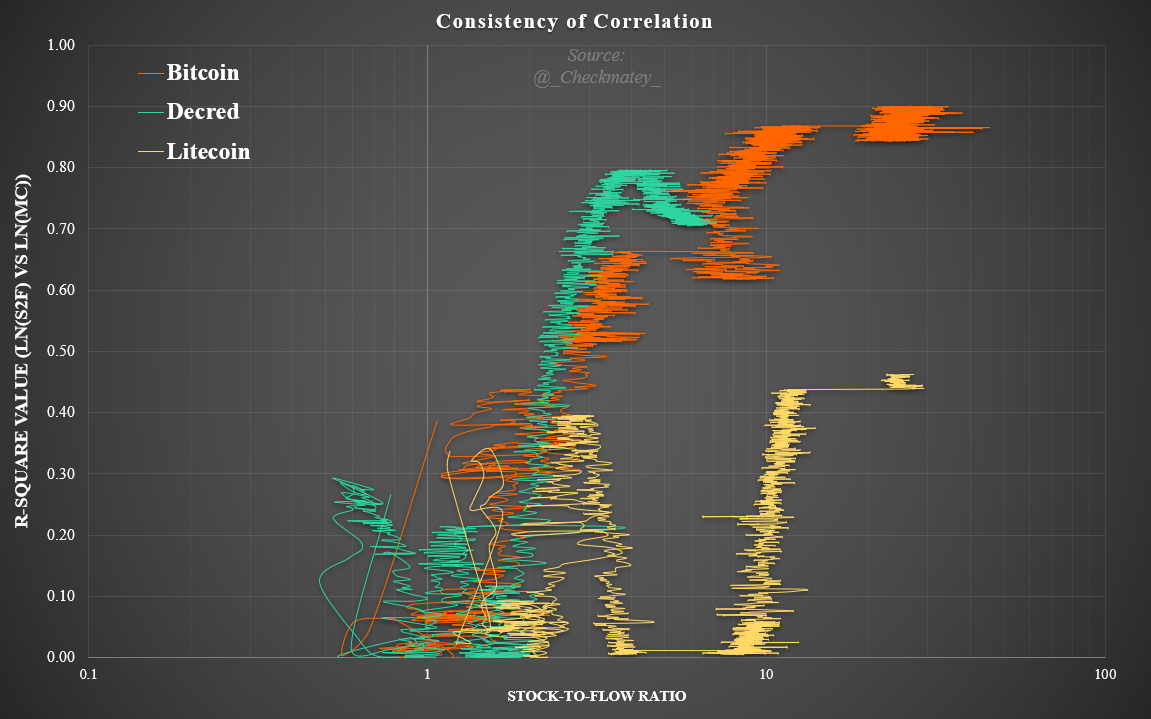
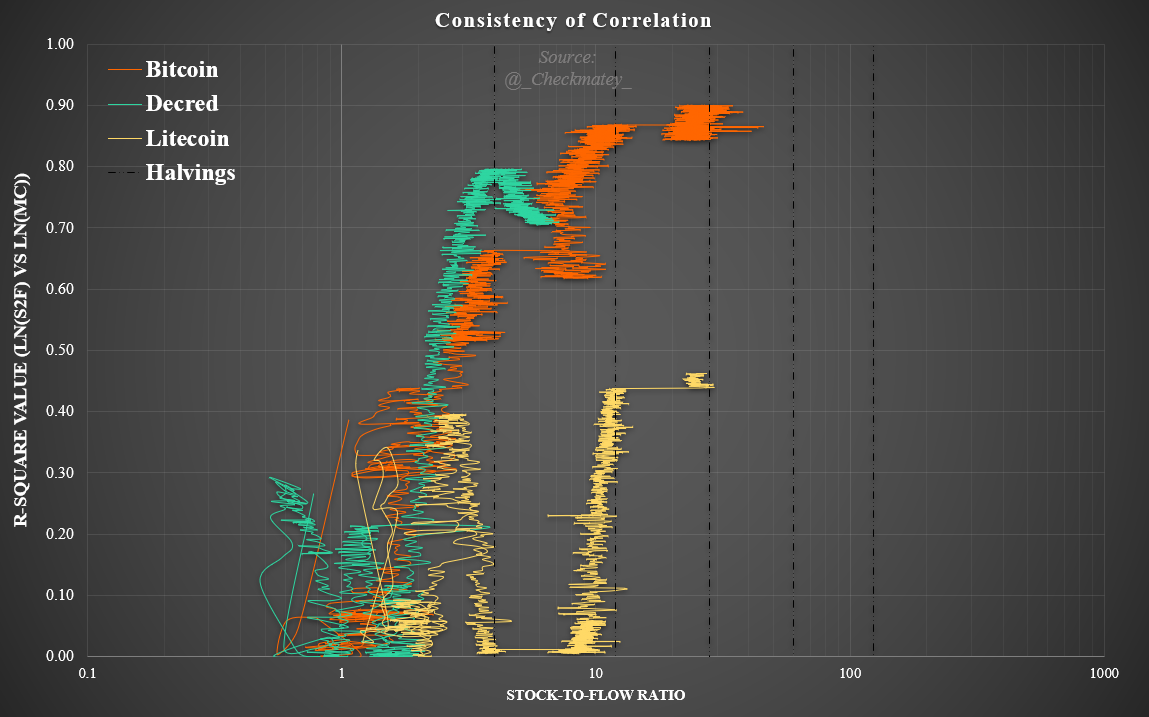
Updated halvings

diff --git a/research_articles/dcr_following_footsteps/decred_following_footsteps.md b/research_articles/dcr_following_footsteps/decred_following_footsteps.md
@@ -87,46 +87,45 @@ For comparison, the same calculation will be undertaken for **Litecoin** which l
 
 The regression analysis has been undertaken as follows:
 
-1) Data is aquired for BTC, DCR and LTC from the coinmetrics.io community dataset. Early price data for Bitcoin is supplemented with data originally used in Plan B's model. Similarly, DCR data is supplemented with the genesis pricing of $0.49/DCR and early data from Bittrex not included in the coinmetrics dataset. Data is thus considered on a daily basis.
+1) Data is aquired for BTC, DCR and LTC from the coinmetrics.io community dataset. Early price data for Bitcoin is supplemented with [data originally used in Plan B's model](https://github.com/100trillionUSD/bitcoin). Similarly, DCR data is supplemented with the genesis pricing of $0.49/DCR and early data from Bittrex not included in the coinmetrics dataset. Data is thus considered on a daily basis.
 
 2) Calculate the daily annual inflation rate of native coins (assuming 365.25 days/yr) and the corresponding Stock-to-Flow ratio. Assuming a power-law relationship exists, the natural logarithm of both S2F and Market Cap are taken and used in linear regression models.
 
 3) Considering the quality of a regression analysis is dependant on the size and quality of the input dataset, an additional set of calculations are undertaken looking at the R-Squared coefficient ovet time. This aims to observe the quality of the Bitcoin model fit with due consideration of the age difference between **Bitcoin**, **Decred** and **Litecoin**. It is expected that if a sound monetary premium is developing, the model fit would improve as more market data comes to light leading to an increasing R-square coefficient.
 
-4) Results are presented normalised against Stock-to-Flow Ratio or the proportion of total supply issued to normalise for the age of each protocol. This compares the model on a like-for-like basis.
+4) Results are presented normalised against Stock-to-Flow Ratio or the proportion of total supply issued to normalise for the age of each protocol with commentary provided.
 
 The model spreadsheet is available [here](regression_analysis.xlsx) for inspection and verification.
 
-# Analysis Result
+# Analysis Results
 ## Stock-to-Flow Relationships
 
-The results of the linear regression analysis including model parameters and R-square fit coefficients are presented in the table and figure below. For Bitcoin and Litecoin, a second regression analysis considering only the first four years of data (pre-halving 1) to align with Plan B's original analysis which showed four years of data provided a very strong model fit.
+The results of the linear regression analysis including model parameters and R-squared fit coefficients are presented in the table and figure below. For Bitcoin and Litecoin, a second regression analysis is undertaken considering only the first four years of data (pre-halving #1) to align with Plan B's follow up analysis which showed four years of data provided a very strong model fit.
 
 By plotting the market valuation against stock-to-flow ratio in log-log space, we can verify visually that the linear regression calculation indeed matches the available market data for each protocol.
-
-There are a number of observations and considerations which must be taken into account when interpreting these results.
 
 ![Regression Analysis Results](images/05_regression_results.png)
 ![Regression Formula](images/05_regression_formula.png)
 ![Regression Analysis Plot](images/06_regression_plot.png)
 
-## Bitcoin
-All three **Bitcoin** regression models are reasonably consistent in fit and show an improved R-square coefficient as larger data-sets and more history is considered. Indeed the full history of Bitcoin very closely matches the model developed by Plan B.
+## ₿itcoin
+All three **Bitcoin** regression models show a consistent fit and generally agree with Plan B's model. A positive correlation exists between the R-squared coefficient and larger input data-sets with more price history. Indeed the full history of Bitcoin very closely matches the model developed by Plan B with an R-squared of 0.899.
 
-Plan Bs original model utilised monthly price data (first of each month) whereas this study considers the average daily close price data. Whilst the overall outcome is similar, the pre-halving model fit using the set of daily **Bitcoin** daily data provides an R-square value of only 0.6624, a marked reduction from ~0.90 when considering a monthly distribution of data for the full history.
+Plan Bs original model utilised monthly price data (first of each month) whereas this study considers the average daily close price data. Whilst the outcome is consistent, the pre-halving model using the set of daily **Bitcoin** data provides an R-squared value of only 0.6624, whilst the fit using monthly price data is 0.894. This highlights the importance of temporal distribution of input data which has shown to make statistically significant differences to the model fit.
 
-This highlights the importance of temporal distribution of the data which has shown to make statistically significant differences to the model fit. At halving events for example, there is a significant change to Bitcoin's Stock-to-flow ratio which is not immediately followed by an equivalent shift in network valuation. Therefore one must be cautious to select data that is not heavily weighted of skewed by data immediately after a halving event.
+At halving events there is a significant change to Bitcoin's Stock-to-flow ratio which is not immediately followed by an equivalent shift in network valuation. Therefore one must be cautious when selecting data to avoid heavily weighting the analysis by data immediately after a halving event.
 
-Nevertheless, given the full suite of price data for **Bitcoin** it is the authors opinion that Bitcoin has an undeniable monetary premium and indeed is an appropriate baseline to which other models should be compared. This analysis provides yet another independant verification that a strong relationship exists between stock-to-flow and network valuation for **Bitcoin**.
+Nevertheless, given the full suite of price data for **Bitcoin** it is the authors opinion that Bitcoin has an undeniable and quantifiable monetary premium and is indeed an appropriate baseline against which other models should be compared. This analysis provides yet another independant verification that a strong relationship exists between stock-to-flow and network valuation for **Bitcoin**.
 
 ## Decred
-**Decred** has shown a statistically significant relationship between Stock-to-Flow and market valuation with an R-square value of 0.70 considering only the first three years of price data. It may be seen that this relationship is comparable to **Bitcoins** at the time of the first halving with an R-square of 0.66.
 
-The early tail of the data plotted above speaks to the difference in market dynamics at the time when first price data first became available for each protocol. Despite high early inflation, **Decreds** tail is consistent around a market value of $5Million until the S2F ratio approaches 2.0 at which point price accelerates during the 2016-17 bull run. **Bitcoin** on the other hand experienced a far slower growth during the 2011-12 bull market with a smaller pool of participants. Early **Bitcoin** price data sources range from Laszlo's 10,000 BTC pizza to early Mt Gox pricing. 
+**Decred** has shown a statistically significant relationship between Stock-to-Flow and market valuation with an R-squared value of 0.70 considering only the first 3.67 years of price data. It can be seen that this relationship is a comparable fit to **Bitcoins** using data up to the time of the first halving with an R-squared of 0.66.
 
-It must therefore be noted that the gradient of these relationship is heavily weighted by this tail end especially during the first 3-4 years of life, an effect **Bitcoin** has overcome with its not 10+ years of price data. It remains to be seen whether **Decred** posts strong performance into the future which will refine whether the model remains statistically valid.
+The early tail (low S2F value) of the data plotted above speaks to the difference in market dynamics at the time when first price data first became available for each protocol. Despite high early inflation, **Decreds** tail is consistent around a market value of $5Million until the S2F ratio approaches ~2.0 at which point valuation accelerates during the 2016-17 bull run. **Bitcoin** on the other hand experienced a far slower growth during the 2011-12 bull market with a smaller pool of participants. Early **Bitcoin** price data sources range from Laszlo's 10,000 BTC pizza to early Mt Gox pricing leading to a lower relative value at similar S2F values.
 
-The overall shape of **Decred**s relationship with S2F appears to be oscillating around the mean regression line. **Decreds** relationship over time appears smoother than **Bitcoin** or **Litecoin**, potentially a result of the smooth issuance curve and lack of severe halving event supply shocks. 
+It must therefore be noted that the gradient of the **Decred** relationship is heavily weighted by this tail end especially during the first 3-4 years of life. **Decred** has only existed through a single **Bitcoin** bull-bear cycle and thus has a limited dataset whilst **Bitcoin** has largely overcome this effect with its now 10+ years of price data and multiple market cycles.
+
+The overall fractal of **Decreds** S2F relationship appears to oscillate around the mean regression line. **Decreds** relationship over time appears smoother than **Bitcoin** or **Litecoin**, likely a result of the smooth issuance curve and lack of severe halving event supply shocks. 
 
 This model must be revised in the next 12-24 months as it is likely the regression fit will be improved if **Decred** experiences strong market performance over this time. Similarly, poor future performance would negatively influence the regression fit.
 
